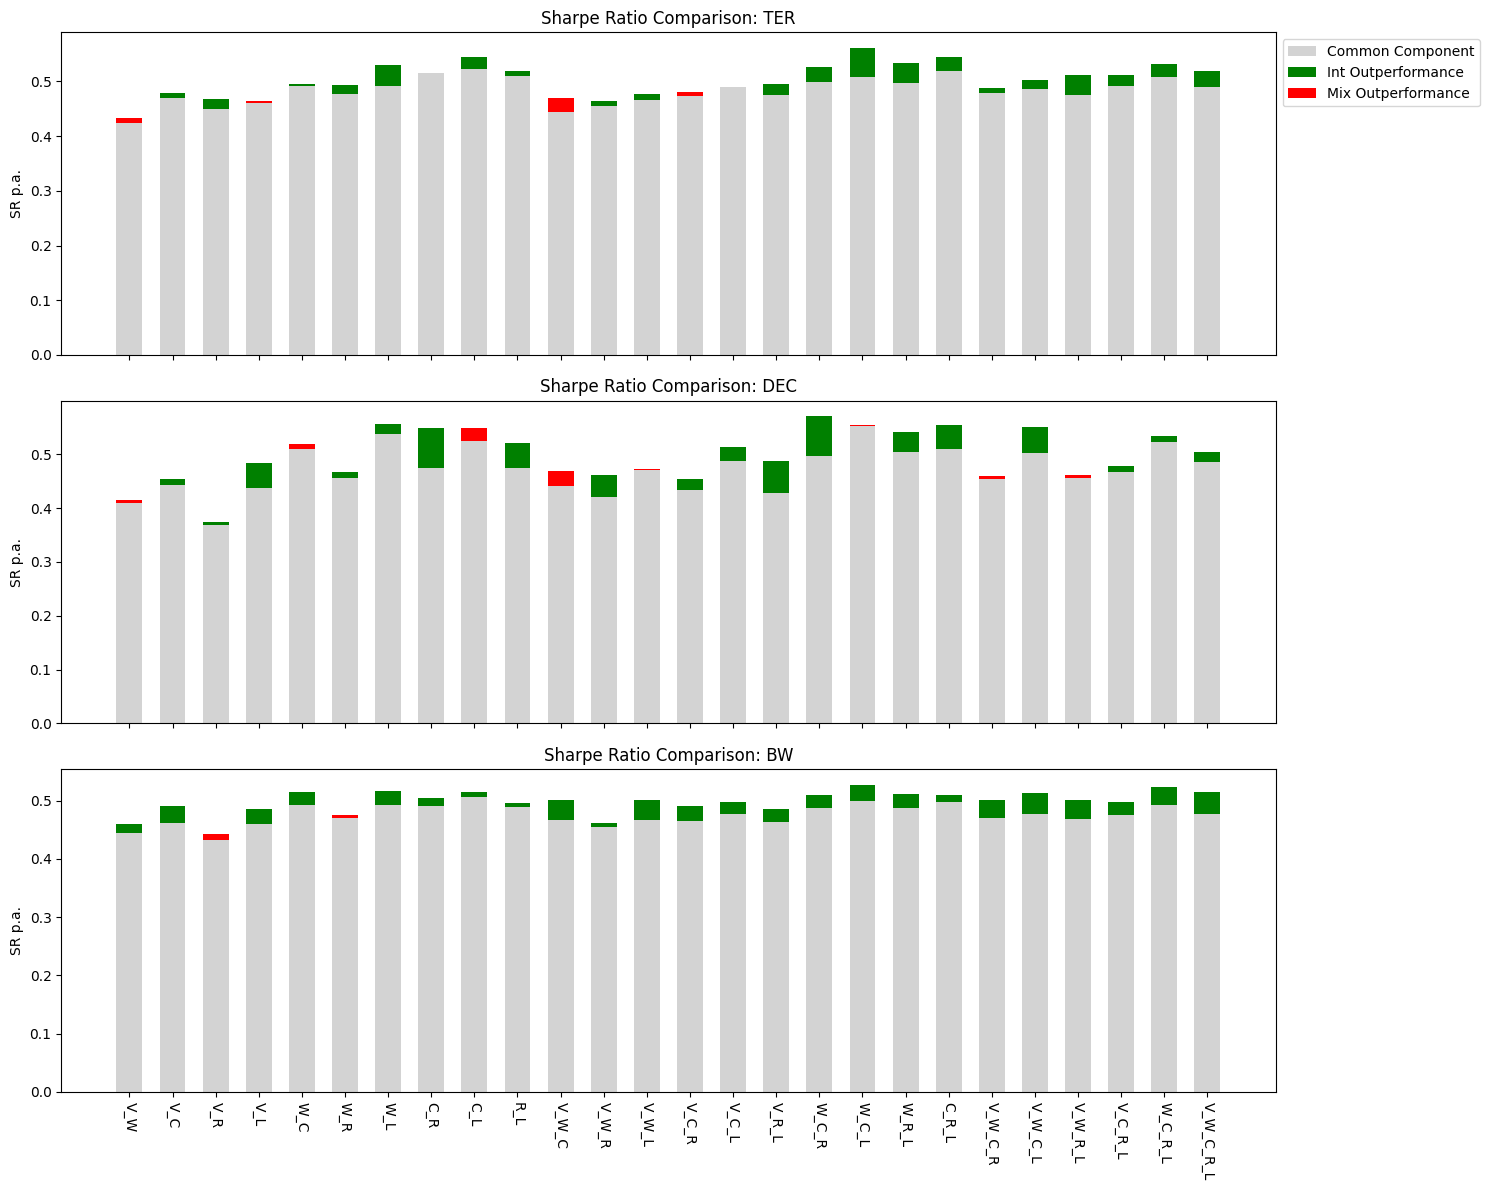
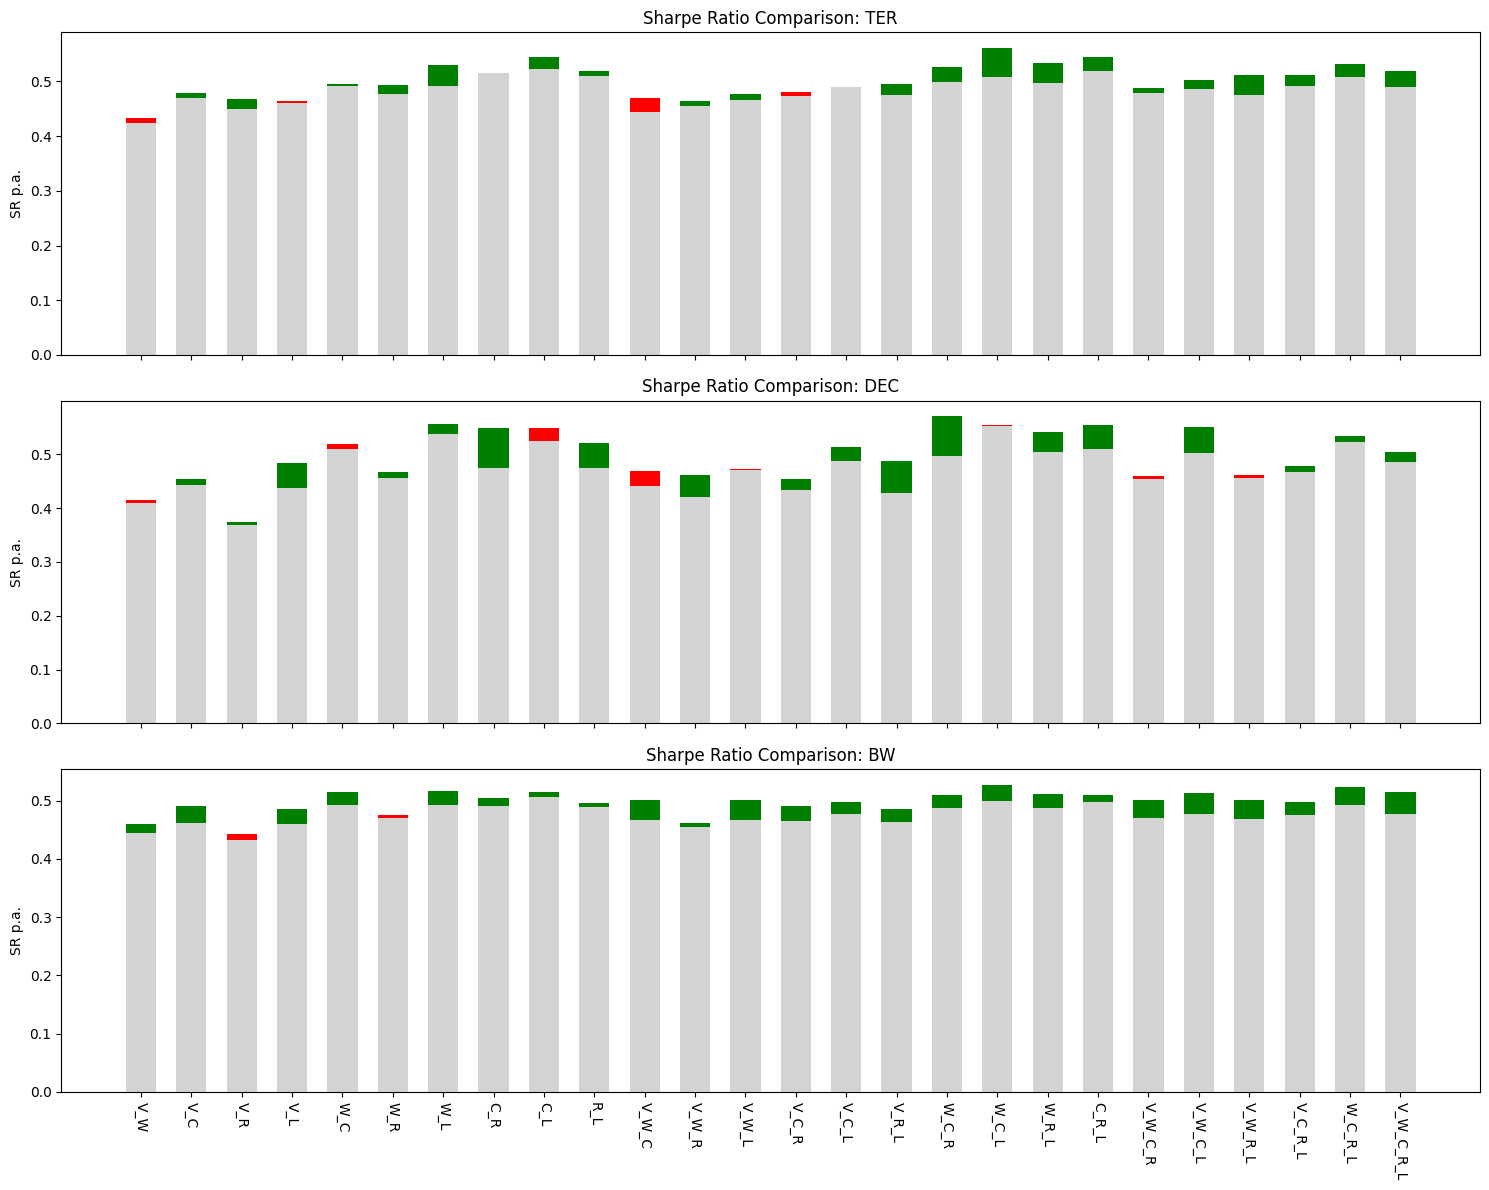
updated readme

diff --git a/README.md b/README.md
@@ -29,11 +29,31 @@ The project implements several portfolio construction techniques:
     *   Utilizes **Ledoit-Wolf Covariance Shrinkage** for robust risk estimation.
     *   Solves the resulting Quadratically Constrained Quadratic Program (QCQP) using `cvxpy`.
 
+## Analysis Workflow
+
+The project performs two parallel analyses to ensure robust comparisons between Integrated and Mixed approaches:
+
+1.  **Standard Construction**: 
+    *   Compares Integrated and Mixed portfolios constructed with identical constraints (e.g., both Top-Decile).
+    *   **Weight Generation**: Run `notebooks/portfolio_weights.ipynb`.
+
+2.  **Active Risk Adjusted**: 
+    *   Adjusts the Mixed portfolio to target the same ex-ante Tracking Error as the Integrated portfolio. This ensures that performance differences are due to the integration efficacy rather than simple leverage or risk exposure differences.
+    *   **Weight Generation**: Run `notebooks/portfolio_active_weights.ipynb`.
+
+**Performance & Testing**:
+The analysis notebooks (`strategy_returns.ipynb` and `robust_hypothesis_testing.ipynb`) are designed to handle both workflows. You must specify which dataset to process (Standard or Active Risk) within the notebook configuration before running.
+
 ## Project Structure
 
 *   `data/`: Contains raw and processed financial data (returns, factors).
 *   `notebooks/`: Jupyter notebooks for data preprocessing, weight calculation, and analysis.
-    *   `portfolio_weights.ipynb`: Main notebook for generating portfolio weights using the defined strategies.
+    *   `data_preprocessing.ipynb`: Cleans raw data and calculates factor scores.
+    *   `vif.ipynb`: Checks for multicollinearity among factors.
+    *   `portfolio_weights.ipynb`: Generates weights for standard portfolio comparisons.
+    *   `portfolio_active_weights.ipynb`: Generates weights where Mixed portfolios are scaled to match the active risk of Integrated portfolios.
+    *   `strategy_returns.ipynb`: Computes performance metrics and plots returns.
+    *   `robust_hypothesis_testing.ipynb`: Performs statistical significance testing (Bootstrap, Romano-Wolf).
 *   `src/portfolio_factor_allocation/`: Python package containing the core logic.
     *   `scoring.py`: Functions for calculating Z-scores and Rank-scores.
     *   `covariance.py`: Implementation of Ledoit-Wolf shrinkage and covariance matrix estimation.
